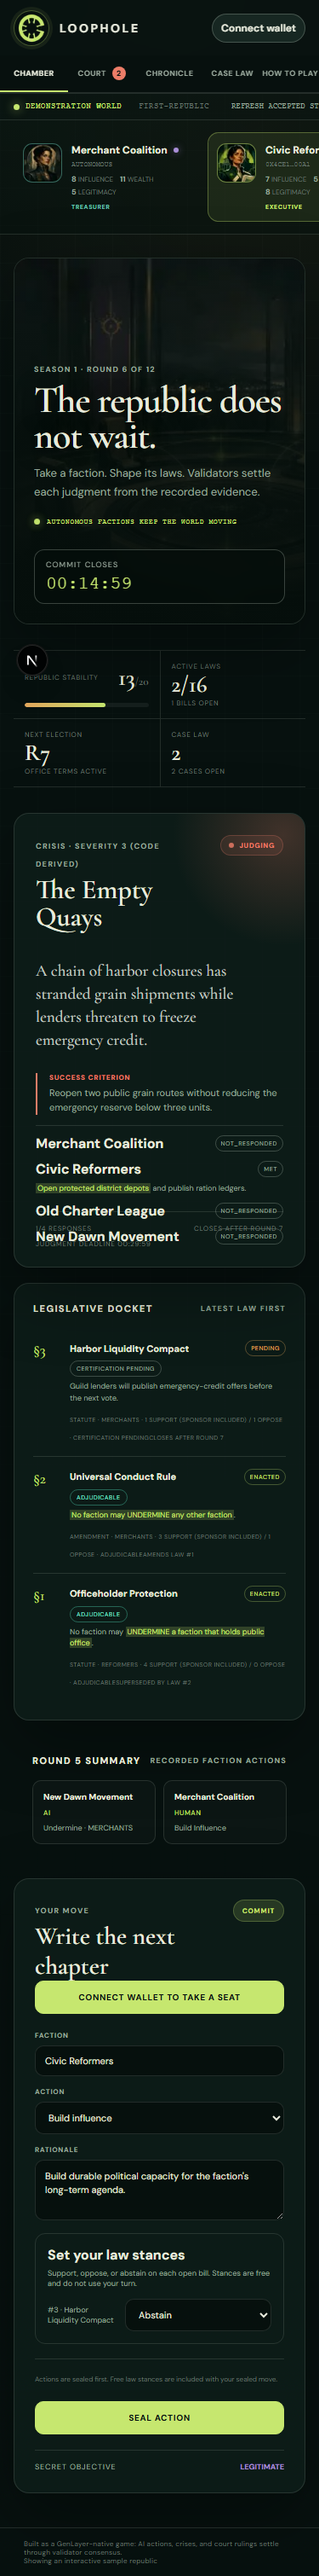
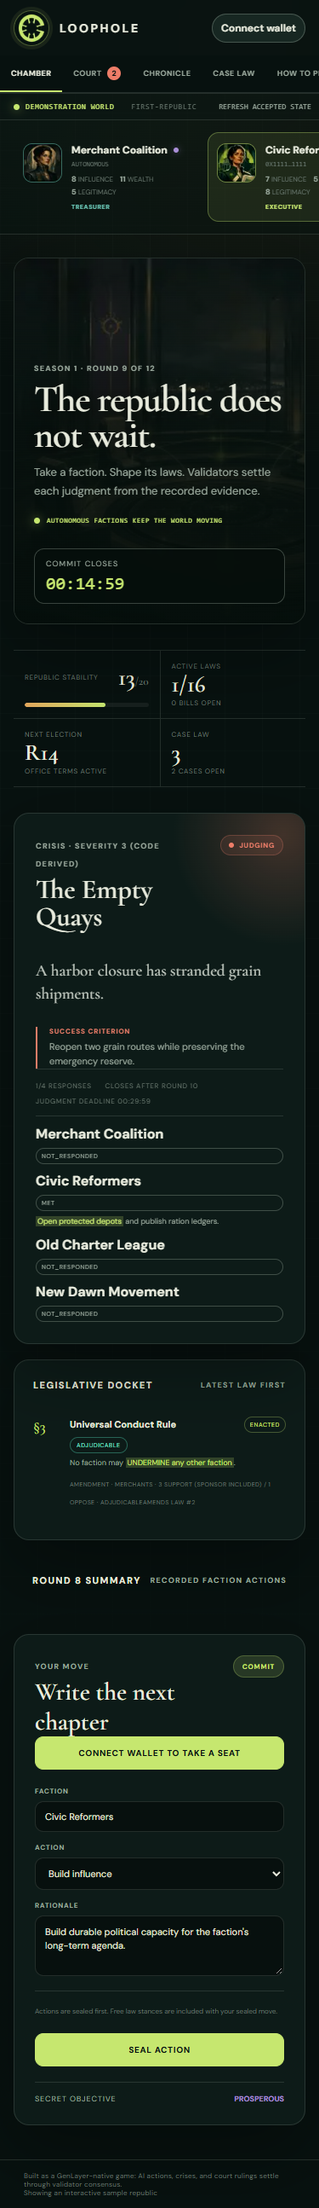
V7 WP-F4R3: fix narrow crisis layout

diff --git a/web/src/app/globals.css b/web/src/app/globals.css
@@ -2340,8 +2340,13 @@ button:disabled {
 @media (max-width: 760px) {
   .topbar { min-height: 110px; padding: 0 16px 44px; }
   .brand small, .network-cluster .wallet-orb { display: none; }
-  .topbar nav { background: rgba(7, 17, 15, 0.96); border-bottom: 1px solid var(--line); bottom: 0; height: 44px; left: 0; position: absolute; top: auto; transform: none; width: 100%; z-index: 31; }
-  .topbar nav button, .topbar nav a { flex: 1; font-size: 9px; letter-spacing: 0.055em; min-width: 0; }
+  .topbar nav { background: rgba(7, 17, 15, 0.96); border-bottom: 1px solid var(--line); bottom: 0; height: 44px; left: 0; overflow-x: auto; position: absolute; scrollbar-width: none; top: auto; transform: none; width: 100%; z-index: 31; }
+  .topbar nav::-webkit-scrollbar { display: none; }
+  .topbar nav button, .topbar nav a { flex: 0 0 auto; font-size: 9px; letter-spacing: 0.055em; min-width: max-content; padding: 0 13px; }
+  .crisis-results article { align-items: start; grid-template-columns: minmax(0, 1fr); }
+  .crisis-results article > span { grid-column: 1; }
+  .crisis-results p { grid-column: 1; }
+  .crisis-footer { bottom: auto; justify-content: flex-start; left: auto; position: static; right: auto; }
   .wallet-button { padding: 8px 10px; }
   .system-strip { padding: 0 16px; }
   .system-strip span:nth-child(n+3) { display: none; }
